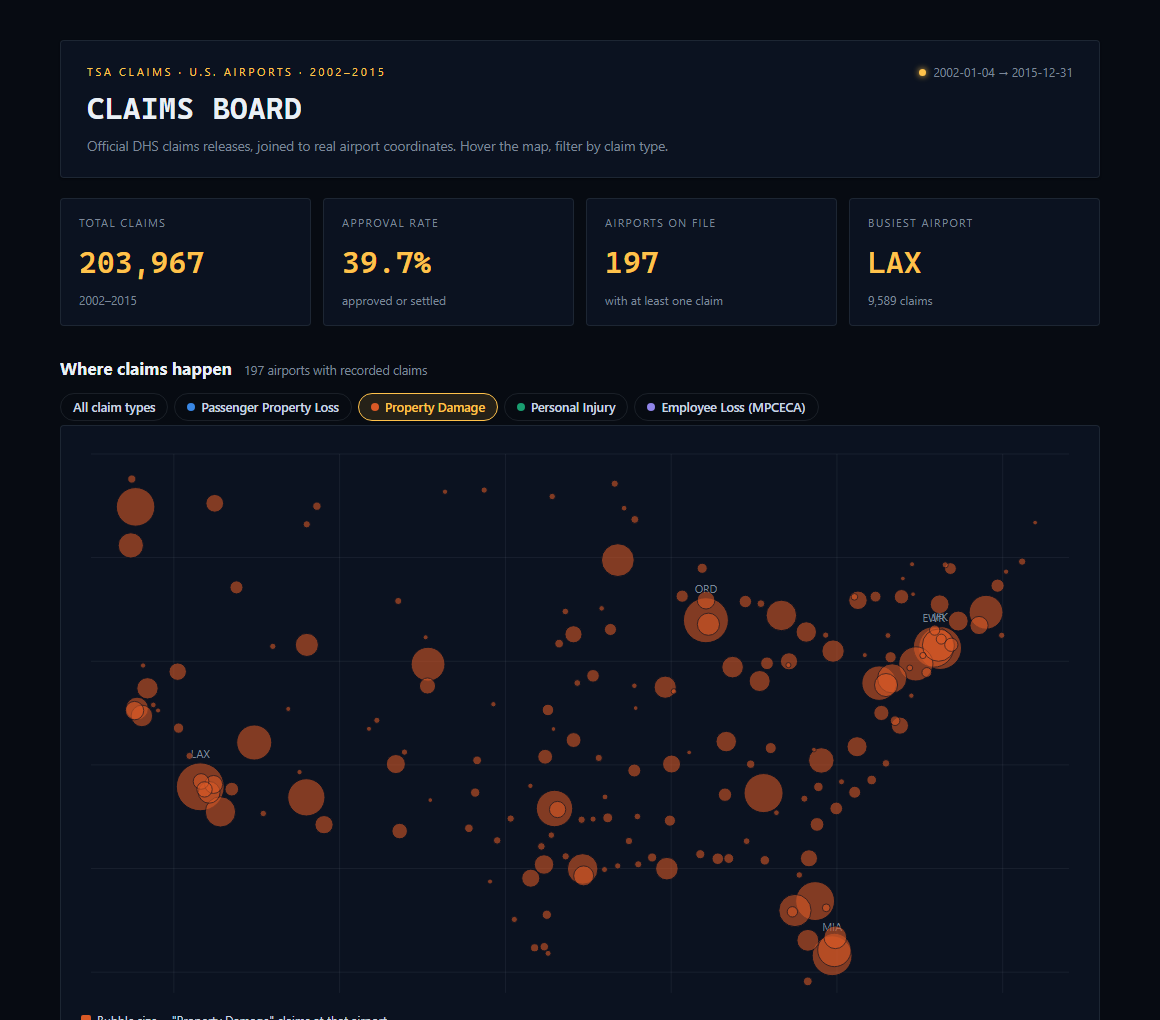
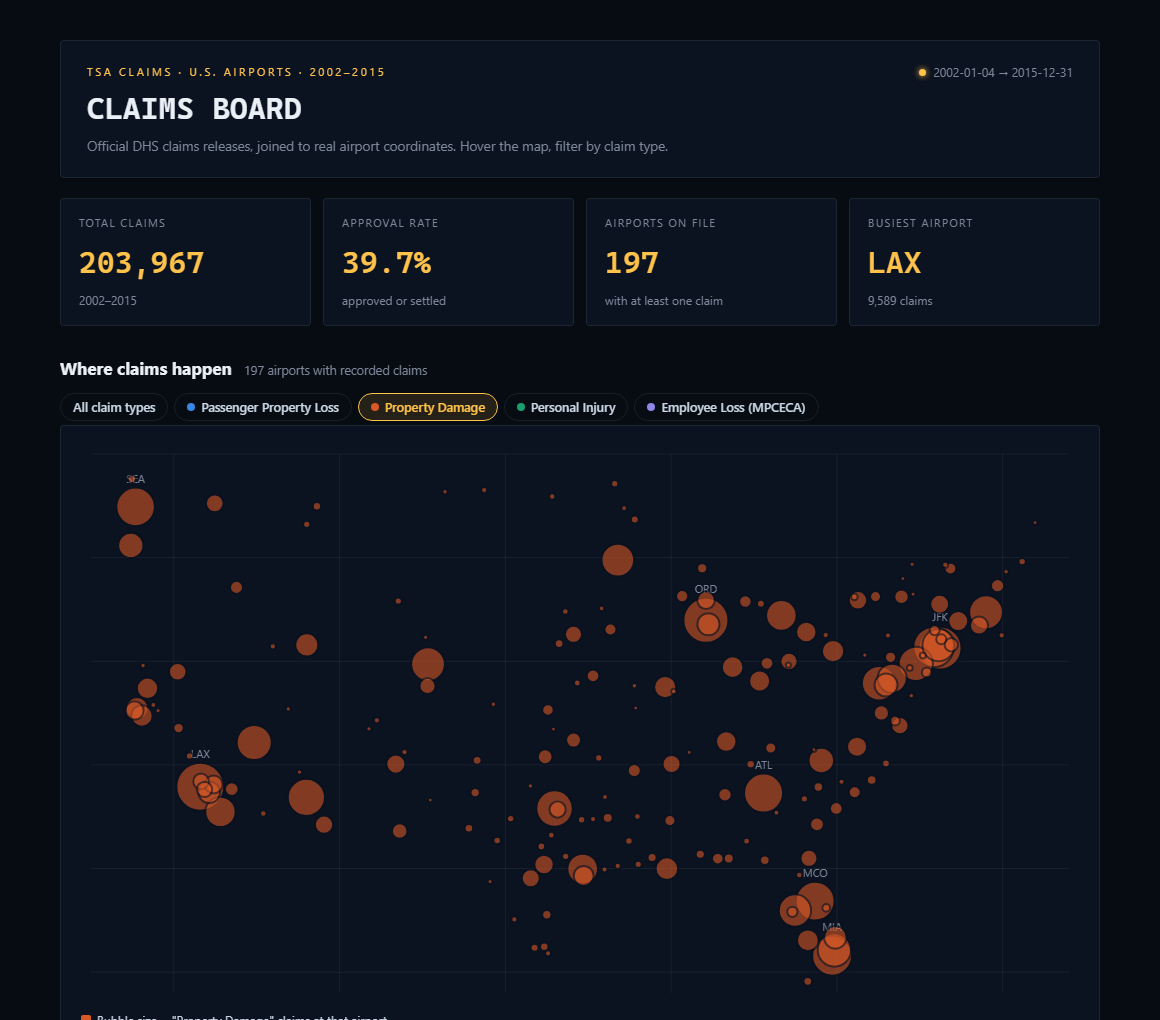
Dataviz audit: fix a recurring label collision and other real issues
Ran the /dataviz procedure against the interactive page shipped last
commit and found:

1. JFK's map label was being silently covered by EWR's (both are top-5
   airports ~15 miles apart), the same label-collision bug already fixed
   once in the notebook's static map, recurring here in the new
   interactive one. Fixed properly this time: labels are chosen from
   whichever airports rank highest under the *active* filter (not a
   fixed all-time top 5, so labels now stay relevant when filtering by
   claim type), and a colliding label is skipped rather than drawn over
   its neighbor, falling back to hover + the table for that airport's
   exact number, the documented fallback for colliding end-labels.

2. Map bubbles for small airports could be ~4px across, a pinpoint hover
   target. Added a separate, larger (min 24px) invisible hit circle
   behind each visible mark so the true-to-scale visual size and the
   hoverable area are no longer the same shape.

3. The bubble ring separating overlapping markers was 1px and a
   hardcoded hex instead of 2px and the actual surface token.

4. `.tile .v` set both a monospace font stack and font-variant-numeric:
   tabular-nums -- the property was fully redundant (monospace already
   gives every character equal width, which is what the split-flap
   shuffle needs to avoid jitter) and is flagged directly as an
   anti-pattern for stat-tile values, so removed it.
[…]

diff --git a/docs/index.html b/docs/index.html
@@ -41,7 +41,10 @@ h1 { font-size: clamp(22px, 4vw, 30px); margin: 6px 0 4px; letter-spacing: .01em
 .tile .l { font-size: 11px; letter-spacing: .12em; text-transform: uppercase;
   color: var(--muted); margin-bottom: 8px; }
 .tile .v { font-size: 30px; font-weight: 600; color: var(--amber);
-  font-variant-numeric: tabular-nums; letter-spacing: .01em; }
+  letter-spacing: .01em; }
+  /* no tabular-nums here: .mono (below) already gives every character equal
+     width, which is what the split-flap shuffle needs to avoid jitter --
+     tabular-nums would be redundant on top of a monospace font stack. */
 .tile .n { font-size: 12px; color: var(--muted); margin-top: 6px; }
 
 /* sections */
@@ -86,6 +89,8 @@ td { padding: 6px 12px 6px 0; border-bottom: 1px solid var(--rule-soft);
   font-variant-numeric: tabular-nums; }
 tr:last-child td { border-bottom: none; }
 .tblwrap { overflow-x: auto; }
+.tblwrap.scroll { max-height: 420px; overflow-y: auto; }
+.tblwrap.scroll thead th { position: sticky; top: 0; background: var(--surface); }
 
 .gallery { display: grid; grid-template-columns: repeat(auto-fit, minmax(260px,1fr));
   gap: 14px; }
@@ -131,10 +136,10 @@ footer a { color: var(--ink-2); }
 
 <section>
   <div class="sect">
-    <h2>Top 10 airports</h2>
+    <h2>All airports</h2>
     <span class="note" id="tabnote"></span>
   </div>
-  <div class="card tblwrap"><table id="topTable"></table></div>
+  <div class="card tblwrap scroll"><table id="topTable"></table></div>
 </section>
 
 <section>
@@ -191,7 +196,7 @@ document.getElementById('rangeline').textContent =
   `${DATA.dateRange[0]} → ${DATA.dateRange[1]}`;
 document.getElementById('mapnote').textContent =
   `${DATA.airports.length} airports with recorded claims`;
-document.getElementById('tabnote').textContent = 'By total claim volume, all types';
+document.getElementById('tabnote').textContent = `All ${DATA.airports.length}, ranked by the active filter`;
 
 // ---------- split-flap counter animation ----------
 // setTimeout-driven (not requestAnimationFrame): rAF doesn't reliably settle
@@ -294,24 +299,48 @@ function renderMap() {
   const color = activeType === 'all' ? 'var(--amber)'
     : CAT_COLORS[shownTypes.indexOf(activeType)] || 'var(--other)';
 
-  DATA.airports.forEach(a => {
-    const v = countFor(a);
-    if (v <= 0) return;
+  // Candidates for a text label: the busiest airports under the active
+  // filter (not a fixed all-time top 5), so the labeled points always match
+  // the biggest bubbles actually on screen.
+  const ranked = DATA.airports.map(a => ({a, v: countFor(a)}))
+    .filter(r => r.v > 0).sort((p, q) => q.v - p.v);
+  const labelCandidates = ranked.slice(0, 8).map(r => r.a.code);
+  const placedLabels = []; // {x, y, w} boxes already placed, in svg units
+
+  ranked.forEach(({a, v}) => {
+    const cx = x(a.lon), cy = y(a.lat);
     const r = 2 + Math.sqrt(v / max) * 22;
-    const dot = el('circle', {cx: x(a.lon), cy: y(a.lat), r: r.toFixed(2),
-      fill: color, opacity: .58, stroke: '#0B1220', 'stroke-width': 1}, svg);
-    dot.style.cursor = 'pointer';
-    dot.addEventListener('mousemove', ev => {
+
+    // Visible mark stays true to scale; a separate, larger transparent
+    // circle carries the actual hover/hit target so small airports (r < 12)
+    // aren't a pinpoint target a reader has to land on dead-center.
+    const hit = el('circle', {cx, cy, r: Math.max(r, 12), fill: 'transparent'}, svg);
+    const dot = el('circle', {cx, cy, r: r.toFixed(2), fill: color, opacity: .58,
+      stroke: 'var(--surface)', 'stroke-width': 2}, svg);
+    hit.style.cursor = 'pointer';
+    const showThis = ev => {
       const label = activeType === 'all' ? 'All claim types' : activeType;
       showTT(`<span class="code">${a.code}</span> — ${a.name}<br>` +
         `${label}: <b>${fmt.format(v)}</b> claims`, ev.clientX, ev.clientY);
-    });
+    };
+    hit.addEventListener('mousemove', showThis);
+    hit.addEventListener('mouseleave', hideTT);
+    dot.addEventListener('mousemove', showThis);
     dot.addEventListener('mouseleave', hideTT);
-    if (a.claims >= DATA.airports[4].claims) {
-      const label = el('text', {x: x(a.lon), y: y(a.lat) - r - 5,
-        'text-anchor': 'middle', fill: 'var(--ink-2)', 'font-weight': 600}, svg);
-      label.textContent = a.code;
-    }
+
+    if (!labelCandidates.includes(a.code)) return;
+    // Skip a label that would collide with one already placed, rather than
+    // stacking unreadable text -- exact identity is still one hover (or a
+    // row in the table below) away, which is the documented fallback for
+    // colliding end-labels.
+    const w = a.code.length * 7 + 6, lx = cx - w / 2, ly = cy - r - 14;
+    const collides = placedLabels.some(p =>
+      lx < p.x + p.w && lx + w > p.x && Math.abs(ly - p.y) < 14);
+    if (collides) return;
+    placedLabels.push({x: lx, y: ly, w});
+    const label = el('text', {x: cx, y: cy - r - 5,
+      'text-anchor': 'middle', fill: 'var(--ink-2)', 'font-weight': 600}, svg);
+    label.textContent = a.code;
   });
 }
 
@@ -327,13 +356,17 @@ function renderLegend() {
   }
 }
 
-// ---------- top 10 table ----------
+// ---------- full airport table (table-view twin of the map) ----------
 function renderTable() {
-  const top10 = [...DATA.airports].sort((a, b) => countFor(b) - countFor(a)).slice(0, 10);
+  const ranked = [...DATA.airports]
+    .map(a => ({a, v: countFor(a)}))
+    .filter(r => r.v > 0)
+    .sort((x, y) => y.v - x.v);
   document.getElementById('topTable').innerHTML =
-    '<tr><th>Code</th><th>Airport</th><th>City</th><th>Claims</th></tr>' +
-    top10.map(a => `<tr><td class="mono">${a.code}</td><td>${a.name}</td>` +
-      `<td>${a.city}</td><td>${fmt.format(countFor(a))}</td></tr>`).join('');
+    '<thead><tr><th>Code</th><th>Airport</th><th>City</th><th>Claims</th></tr></thead>' +
+    '<tbody>' + ranked.map(({a, v}) =>
+      `<tr><td class="mono">${a.code}</td><td>${a.name}</td>` +
+      `<td>${a.city}</td><td>${fmt.format(v)}</td></tr>`).join('') + '</tbody>';
 }
 
 function renderAll() { renderMap(); renderLegend(); renderTable(); syncFilterPressed(); }

diff --git a/scripts/build_interactive_map.py b/scripts/build_interactive_map.py
@@ -160,7 +160,10 @@ h1 { font-size: clamp(22px, 4vw, 30px); margin: 6px 0 4px; letter-spacing: .01em
 .tile .l { font-size: 11px; letter-spacing: .12em; text-transform: uppercase;
   color: var(--muted); margin-bottom: 8px; }
 .tile .v { font-size: 30px; font-weight: 600; color: var(--amber);
-  font-variant-numeric: tabular-nums; letter-spacing: .01em; }
+  letter-spacing: .01em; }
+  /* no tabular-nums here: .mono (below) already gives every character equal
+     width, which is what the split-flap shuffle needs to avoid jitter --
+     tabular-nums would be redundant on top of a monospace font stack. */
 .tile .n { font-size: 12px; color: var(--muted); margin-top: 6px; }
 
 /* sections */
@@ -205,6 +208,8 @@ td { padding: 6px 12px 6px 0; border-bottom: 1px solid var(--rule-soft);
   font-variant-numeric: tabular-nums; }
 tr:last-child td { border-bottom: none; }
 .tblwrap { overflow-x: auto; }
+.tblwrap.scroll { max-height: 420px; overflow-y: auto; }
+.tblwrap.scroll thead th { position: sticky; top: 0; background: var(--surface); }
 
 .gallery { display: grid; grid-template-columns: repeat(auto-fit, minmax(260px,1fr));
   gap: 14px; }
@@ -250,10 +255,10 @@ footer a { color: var(--ink-2); }
 
 <section>
   <div class="sect">
-    <h2>Top 10 airports</h2>
+    <h2>All airports</h2>
     <span class="note" id="tabnote"></span>
   </div>
-  <div class="card tblwrap"><table id="topTable"></table></div>
+  <div class="card tblwrap scroll"><table id="topTable"></table></div>
 </section>
 
 <section>
@@ -310,7 +315,7 @@ document.getElementById('rangeline').textContent =
   `${DATA.dateRange[0]} → ${DATA.dateRange[1]}`;
 document.getElementById('mapnote').textContent =
   `${DATA.airports.length} airports with recorded claims`;
-document.getElementById('tabnote').textContent = 'By total claim volume, all types';
+document.getElementById('tabnote').textContent = `All ${DATA.airports.length}, ranked by the active filter`;
 
 // ---------- split-flap counter animation ----------
 // setTimeout-driven (not requestAnimationFrame): rAF doesn't reliably settle
@@ -413,24 +418,48 @@ function renderMap() {
   const color = activeType === 'all' ? 'var(--amber)'
     : CAT_COLORS[shownTypes.indexOf(activeType)] || 'var(--other)';
 
-  DATA.airports.forEach(a => {
-    const v = countFor(a);
-    if (v <= 0) return;
+  // Candidates for a text label: the busiest airports under the active
+  // filter (not a fixed all-time top 5), so the labeled points always match
+  // the biggest bubbles actually on screen.
+  const ranked = DATA.airports.map(a => ({a, v: countFor(a)}))
+    .filter(r => r.v > 0).sort((p, q) => q.v - p.v);
+  const labelCandidates = ranked.slice(0, 8).map(r => r.a.code);
+  const placedLabels = []; // {x, y, w} boxes already placed, in svg units
+
+  ranked.forEach(({a, v}) => {
+    const cx = x(a.lon), cy = y(a.lat);
     const r = 2 + Math.sqrt(v / max) * 22;
-    const dot = el('circle', {cx: x(a.lon), cy: y(a.lat), r: r.toFixed(2),
-      fill: color, opacity: .58, stroke: '#0B1220', 'stroke-width': 1}, svg);
-    dot.style.cursor = 'pointer';
-    dot.addEventListener('mousemove', ev => {
+
+    // Visible mark stays true to scale; a separate, larger transparent
+    // circle carries the actual hover/hit target so small airports (r < 12)
+    // aren't a pinpoint target a reader has to land on dead-center.
+    const hit = el('circle', {cx, cy, r: Math.max(r, 12), fill: 'transparent'}, svg);
+    const dot = el('circle', {cx, cy, r: r.toFixed(2), fill: color, opacity: .58,
+      stroke: 'var(--surface)', 'stroke-width': 2}, svg);
+    hit.style.cursor = 'pointer';
+    const showThis = ev => {
       const label = activeType === 'all' ? 'All claim types' : activeType;
       showTT(`<span class="code">${a.code}</span> — ${a.name}<br>` +
         `${label}: <b>${fmt.format(v)}</b> claims`, ev.clientX, ev.clientY);
-    });
+    };
+    hit.addEventListener('mousemove', showThis);
+    hit.addEventListener('mouseleave', hideTT);
+    dot.addEventListener('mousemove', showThis);
     dot.addEventListener('mouseleave', hideTT);
-    if (a.claims >= DATA.airports[4].claims) {
-      const label = el('text', {x: x(a.lon), y: y(a.lat) - r - 5,
-        'text-anchor': 'middle', fill: 'var(--ink-2)', 'font-weight': 600}, svg);
-      label.textContent = a.code;
-    }
+
+    if (!labelCandidates.includes(a.code)) return;
+    // Skip a label that would collide with one already placed, rather than
+    // stacking unreadable text -- exact identity is still one hover (or a
+    // row in the table below) away, which is the documented fallback for
+    // colliding end-labels.
+    const w = a.code.length * 7 + 6, lx = cx - w / 2, ly = cy - r - 14;
+    const collides = placedLabels.some(p =>
+      lx < p.x + p.w && lx + w > p.x && Math.abs(ly - p.y) < 14);
+    if (collides) return;
+    placedLabels.push({x: lx, y: ly, w});
+    const label = el('text', {x: cx, y: cy - r - 5,
+      'text-anchor': 'middle', fill: 'var(--ink-2)', 'font-weight': 600}, svg);
+    label.textContent = a.code;
   });
 }
 
@@ -446,13 +475,17 @@ function renderLegend() {
   }
 }
 
-// ---------- top 10 table ----------
+// ---------- full airport table (table-view twin of the map) ----------
 function renderTable() {
-  const top10 = [...DATA.airports].sort((a, b) => countFor(b) - countFor(a)).slice(0, 10);
+  const ranked = [...DATA.airports]
+    .map(a => ({a, v: countFor(a)}))
+    .filter(r => r.v > 0)
+    .sort((x, y) => y.v - x.v);
   document.getElementById('topTable').innerHTML =
-    '<tr><th>Code</th><th>Airport</th><th>City</th><th>Claims</th></tr>' +
-    top10.map(a => `<tr><td class="mono">${a.code}</td><td>${a.name}</td>` +
-      `<td>${a.city}</td><td>${fmt.format(countFor(a))}</td></tr>`).join('');
+    '<thead><tr><th>Code</th><th>Airport</th><th>City</th><th>Claims</th></tr></thead>' +
+    '<tbody>' + ranked.map(({a, v}) =>
+      `<tr><td class="mono">${a.code}</td><td>${a.name}</td>` +
+      `<td>${a.city}</td><td>${fmt.format(v)}</td></tr>`).join('') + '</tbody>';
 }
 
 function renderAll() { renderMap(); renderLegend(); renderTable(); syncFilterPressed(); }